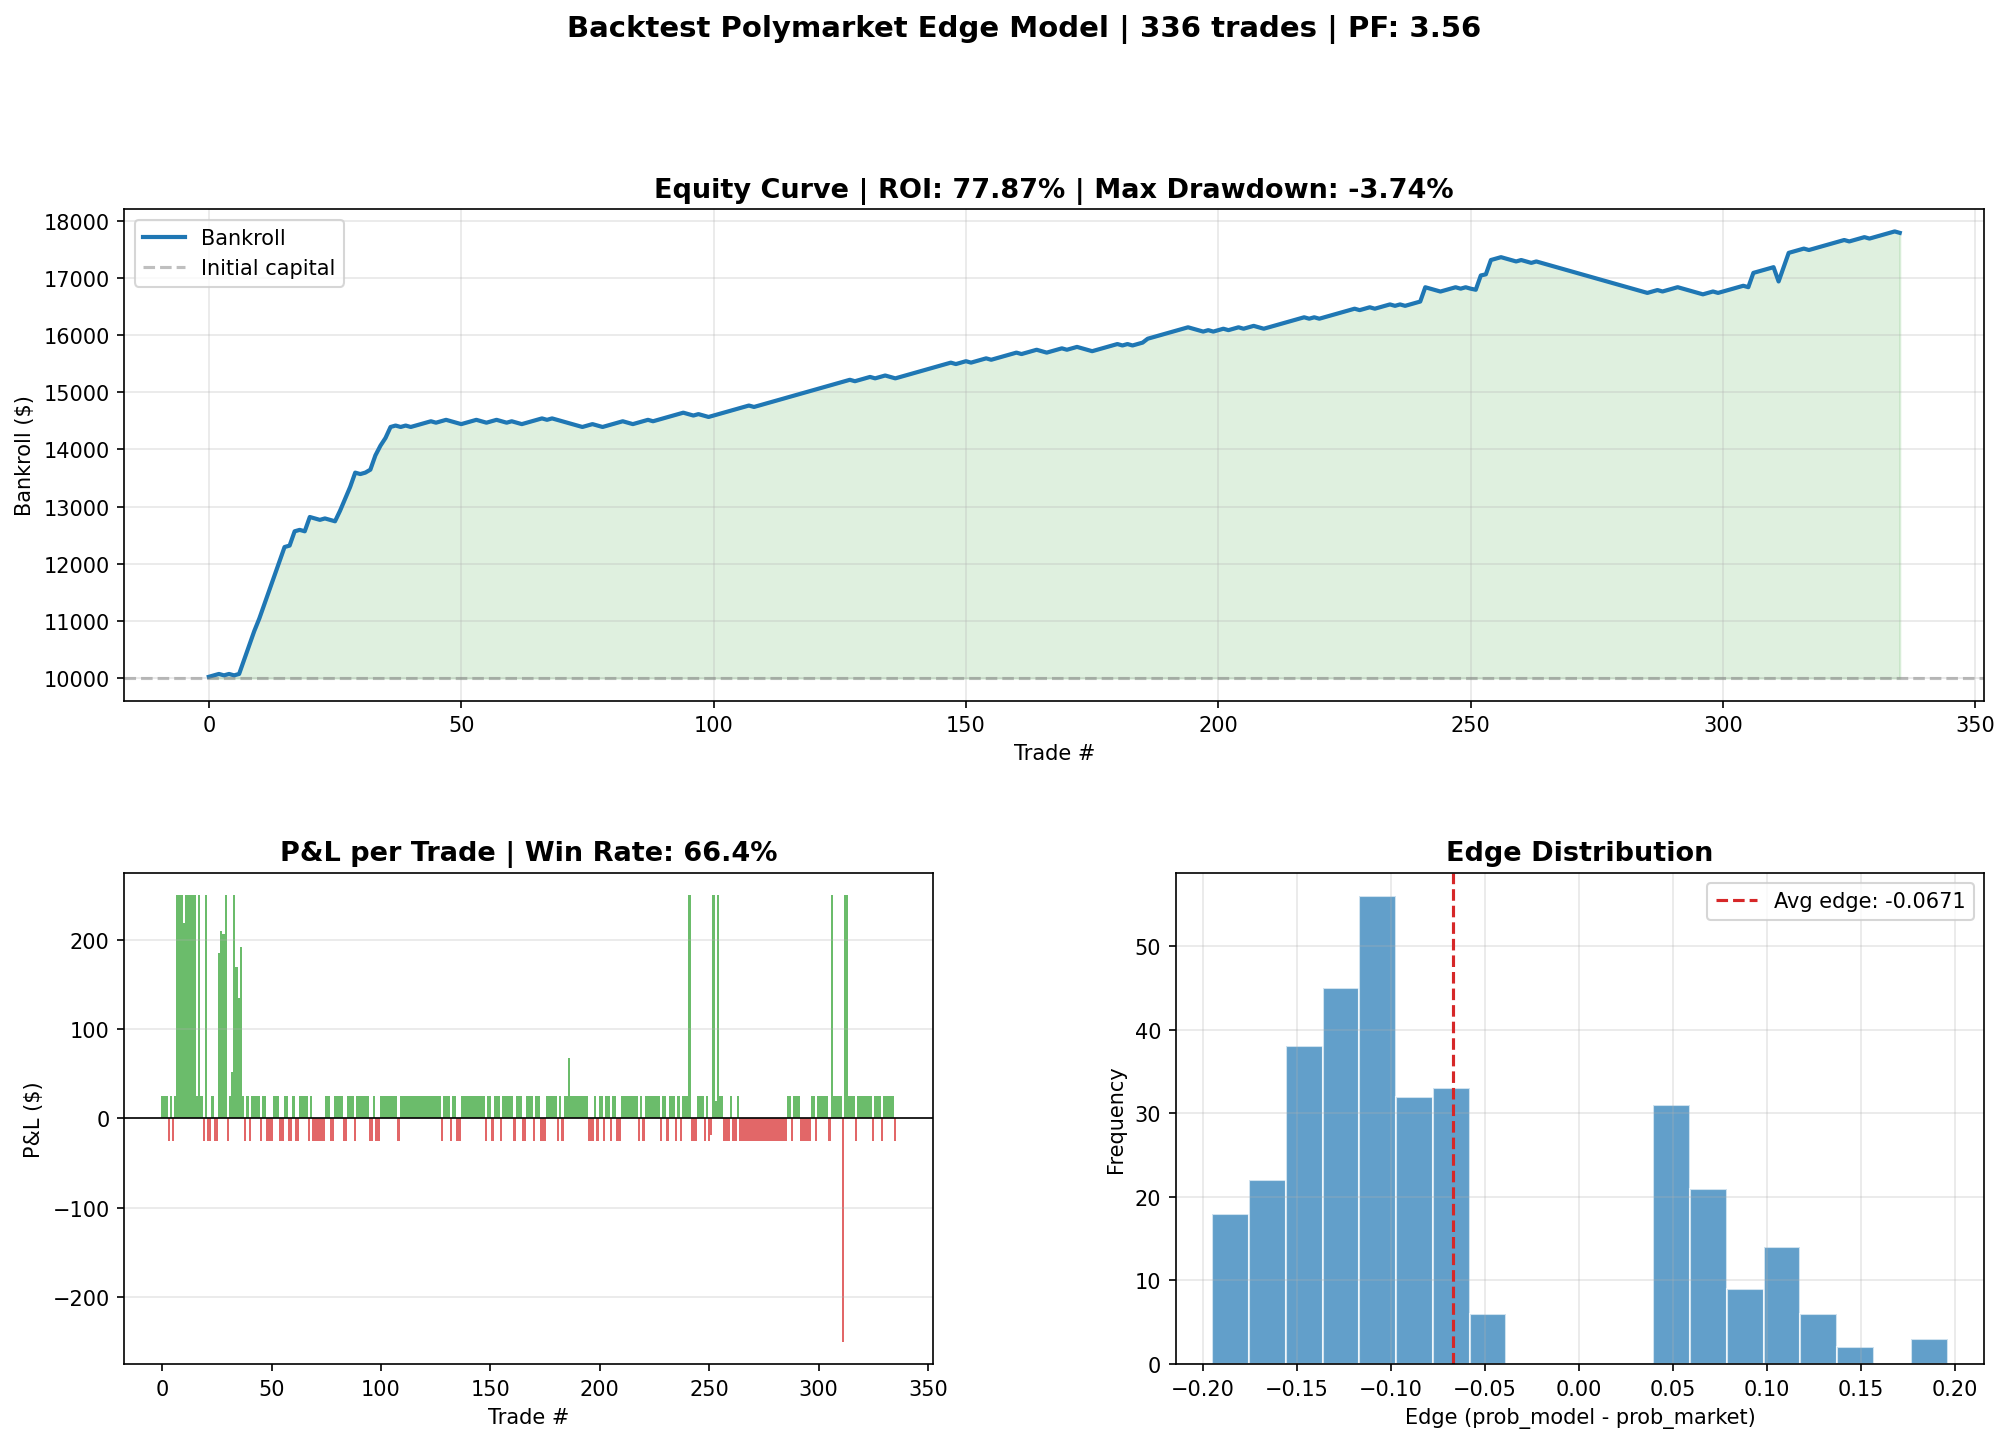
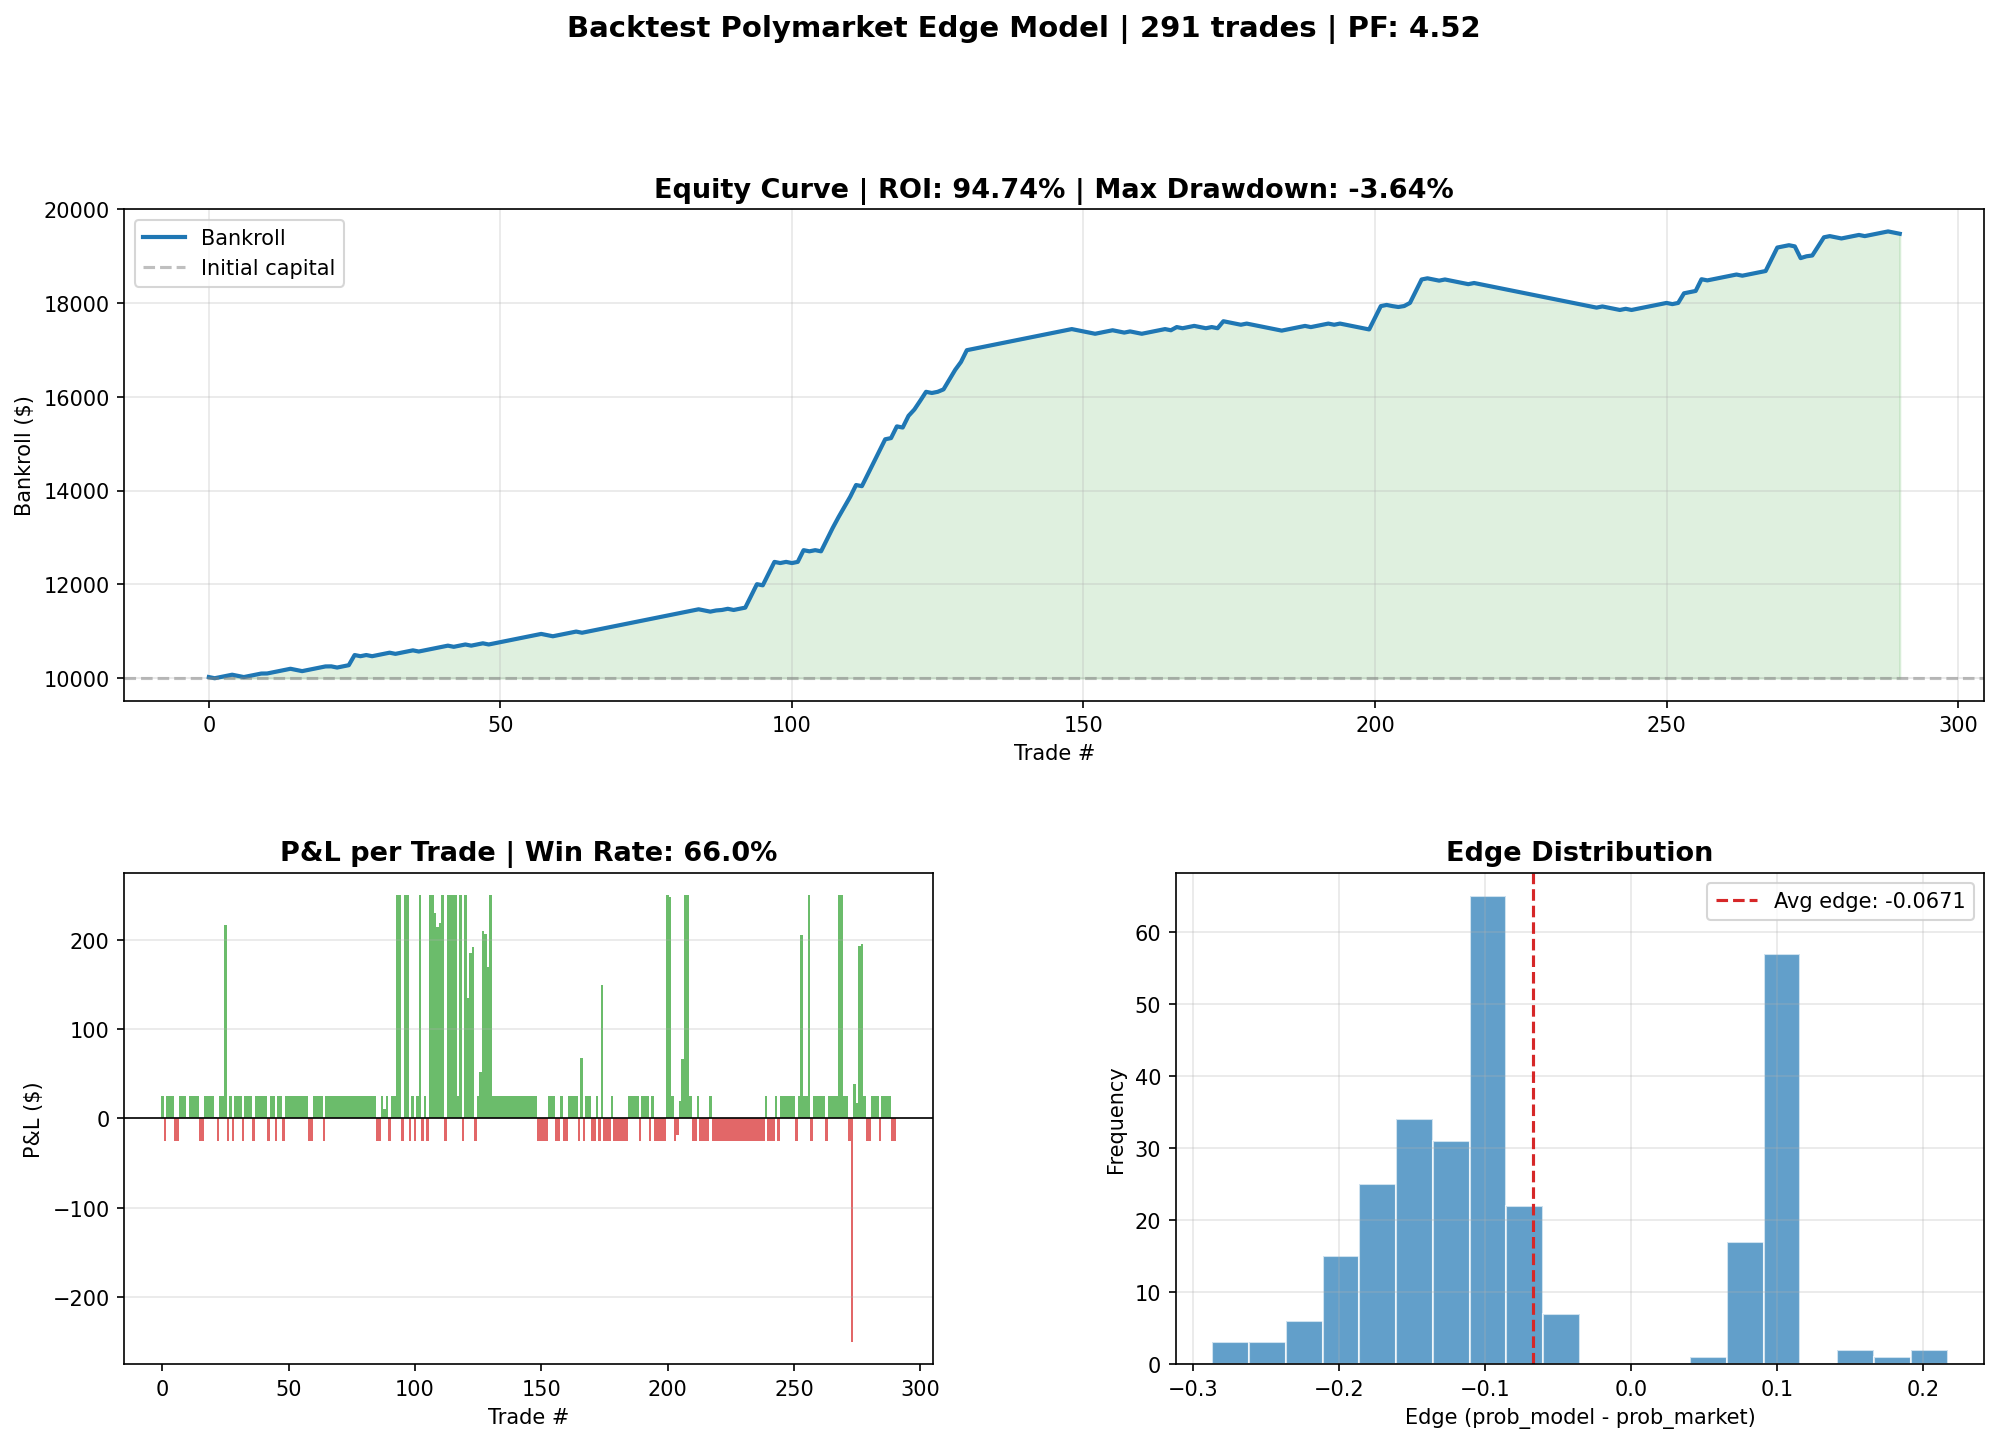
engine: order market universe by 24h volume, widen expiry to 180d, lower min edge to 3%
- fetch_markets: Gamma's default ordering returns oldest markets first,
  starving the scan of fresh markets; order by volume24hr descending
  (order=liquidity is broken server-side: sorts as text)
- exclude sub-hourly crypto "Up or Down" markets (hover near 50c where
  fees bite hardest; resolve on price noise the model has no signal on)
- max_days_to_end 90 -> 180 (rotation not a constraint at 5% exposure)
- min_edge 0.05 -> 0.03, backtest-validated on the same model/test set:
  291 trades vs 233, win rate 66.0% vs 63.5%, ROI +94.7% vs +67.8%,
  max drawdown -3.64% vs -4.07%, profit factor 4.52 vs 3.89
- regenerate backtest_results.png and update README

diff --git a/polymarket_api.py b/polymarket_api.py
@@ -9,11 +9,19 @@ GAMMA_URL = "https://gamma-api.polymarket.com" # Metadata: titles, rules, catego
 CLOB_URL  = "https://clob.polymarket.com" # Markets: real-time orderbook, midpoint...
 
 # Makes a single paginated call to the GAMMA API to get a markets list as raw JSON
-def fetch_markets(limit: int = 50, offset: int = 0, active_only: bool = True) -> list[dict]:
+# Gamma's default ordering returns the OLDEST markets first, which fills the scan
+# with stale long-dated markets and leaves the fresh ones out of the universe.
+# Order by 24h volume (descending) so we scan the markets people trade right now.
+# Note: order="liquidity" is broken server-side (sorts the value as text, so
+# "99.9" > "999.7"); volume24hr and the *Num fields sort numerically.
+def fetch_markets(limit: int = 50, offset: int = 0, active_only: bool = True, order: str | None = "volume24hr") -> list[dict]:
     params = {
         "limit": limit,
         "offset": offset,
     }
+    if order:
+        params["order"] = order
+        params["ascending"] = "false"
     if active_only:
         params["active"] = "true"
         params["closed"] = "false"

diff --git a/signal_engine.py b/signal_engine.py
@@ -22,6 +22,10 @@ from expected_value import filter_tradeable_markets, find_best_external_match, e
 # (they are also all correlated bets on the same underlying: GTA VI's release date)
 EXCLUDED_QUESTION_PATTERNS = [
     re.compile(r"GTA\s*(VI|6)", re.IGNORECASE),
+    # Sub-hourly crypto "Up or Down" markets: they hover around 50c (exactly
+    # where Polymarket's current fees bite hardest) and resolve on short-term
+    # price noise that the calibration model has no signal on
+    re.compile(r"\bUp or Down\b", re.IGNORECASE),
 ]
 
 # Generic safety net for markets we don't know about: the Gamma "description"

diff --git a/bot.py b/bot.py
@@ -120,10 +120,10 @@ def run_cycle(model, feature_cols: list[str]) -> dict:
             model = model,
             feature_cols = feature_cols,
             max_markets = MAX_MARKETS,
-            min_edge = 0.05,
+            min_edge = 0.03, # Backtest-validated 2026-07-12: 3% beats 5% on trades (291 vs 233), win rate, ROI and drawdown
             max_edge = 0.30,
             max_kelly = 0.10,
-            max_days_to_end = 90,
+            max_days_to_end = 180,
             use_external = USE_EXTERNAL,
         )
         logger.info(f"Signals generated: {len(signals)}")

diff --git a/backtester.py b/backtester.py
@@ -292,7 +292,7 @@ if __name__ == "__main__":
     os.makedirs("data", exist_ok=True)
 
     INITIAL_BANKROLL = 10_000.0
-    MIN_EDGE = 0.05 # Minimum edge to trade (5%), same threshold the live bot uses
+    MIN_EDGE = 0.03 # Minimum edge to trade (3%), same threshold the live bot uses
     MAX_EDGE = 0.30 # Skip edges above this (model error, not mispricing)
     USE_KELLY = True # True = Half-Kelly, False = fixed 2% fraction
     MAX_KELLY = 0.10 # Max 10% of bankroll per trade

diff --git a/README.md b/README.md
@@ -41,20 +41,20 @@ The Random Forest achieves a **12.9% improvement** over the raw market probabili
 
 ## BACKTEST RESULTS
 
-The backtester uses a **temporal split** (not random) to avoid look-ahead bias: the model trains on the first 70% of markets by date (Jan-May 2024) and simulates trades on the remaining 30% (May 2024-Jan 2025).
+The backtester uses a **temporal split** (not random) to avoid look-ahead bias: the model trains on the first 70% of markets by date (Jan-Apr 2024) and simulates trades on the remaining 30% (Apr-Dec 2024).
 
 | Metric            | Value                          |
 | ----------------- | ------------------------------ |
-| Test period       | May 2024 - Jan 2025 (8 months) |
-| Total trades      | 336                            |
-| Win rate          | 66.4%                          |
-| ROI               | +77.9%                         |
-| Max drawdown      | -3.74%                         |
-| Profit factor     | 3.56                           |
-| Avg position size | $41                            |
-| Brier improvement | +4.0% over raw market          |
+| Test period       | Apr 2024 - Dec 2024 (8 months) |
+| Total trades      | 291                            |
+| Win rate          | 66.0%                          |
+| ROI               | +94.7%                         |
+| Max drawdown      | -3.64%                         |
+| Profit factor     | 4.52                           |
+| Avg position size | $51                            |
+| Brier improvement | +4.4% over raw market          |
 
-_Last re-run: 2026-06-10, after the Kelly side-selection fix, with the live signal guards applied (see below), the minimum edge aligned with the live bot (5%) and the live $250 per-position hard cap._
+_Last re-run: 2026-07-12, with the minimum edge lowered to 3% (validated against 4% and 5%: on the same model and test set, 3% produced more trades — 291 vs 233 — with a higher win rate, higher ROI and a smaller drawdown), the live signal guards applied (see below) and the live $250 per-position hard cap. Note: the Gamma API now rejects offsets beyond ~2,100 resolved markets (HTTP 422), so the dataset is smaller than the 3,000 used in earlier runs; the live bot trains through the same call, so backtest and live model remain identical._
 
 Position sizing uses **Half-Kelly** capped at 10% of bankroll, 10% of each market's reported liquidity, and a $250 hard cap per position (the same limits the live bot uses). The model shows a strong BUY NO bias which is consistent with the longshot bias where Polymarket overprices unlikely YES outcomes.
 
@@ -82,7 +82,7 @@ Position sizing uses **Half-Kelly** capped at 10% of bankroll, 10% of each marke
 
 **Distribution shift on active markets**: The model is trained on resolved markets, whose recorded price is the near-final bid/ask. Applied to active markets mid-life, `class_weight="balanced"` inflates P(YES) toward 0.5 on longshots, producing large fake edges that always point to BUY YES (live paper trading showed 26/27 open positions were BUY YES on markets priced 0.03–0.13). The signal engine now guards against this: it skips BUY YES signals on markets priced below 0.15 (and BUY NO above 0.85), and rejects any signal with |edge| > 0.30 as a likely model error rather than a real mispricing.
 
-**Automation**: The bot (`bot.py`) runs automatically via GitHub Actions every ~30 minutes, 24/7, at no cost. Live-only portfolio controls (not part of the backtest, which has no entry-time dimension): max 70% of equity deployed, max 5 new positions per cycle, and only markets resolving within 90 days. Live order execution is pending two things: validating profitability through paper trading, and the CLOB v2 release (April-May 2026).
+**Automation**: The bot (`bot.py`) runs automatically via GitHub Actions every ~30 minutes, 24/7, at no cost. Live-only portfolio controls (not part of the backtest, which has no entry-time dimension): max 70% of equity deployed, max 5 new positions per cycle, and only markets resolving within 180 days. The market universe is fetched ordered by 24h volume (descending): Gamma's default ordering returns the oldest active markets first, which filled the scan with stale long-dated markets and starved the bot of signals. Sub-hourly crypto "Up or Down" markets are excluded (they sit near 50c, where current fees bite hardest, and resolve on price noise the model has no signal on). Live order execution is pending two things: validating profitability through paper trading, and the CLOB v2 release (April-May 2026).
 
 ## REQUIREMENTS
 
